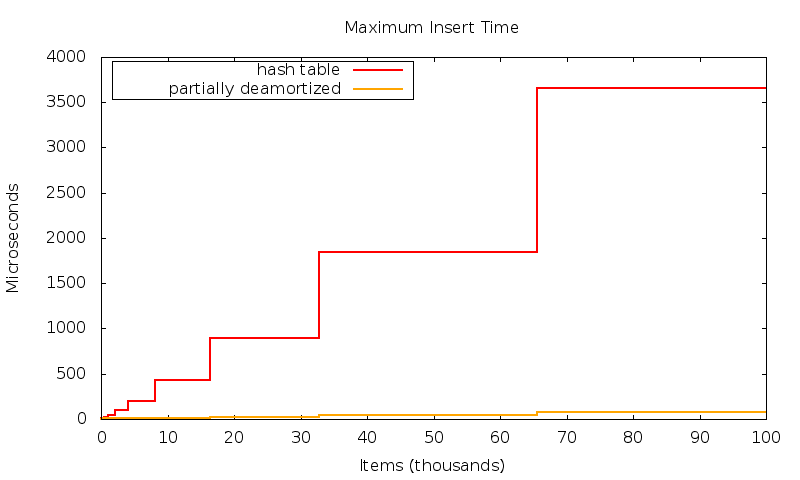
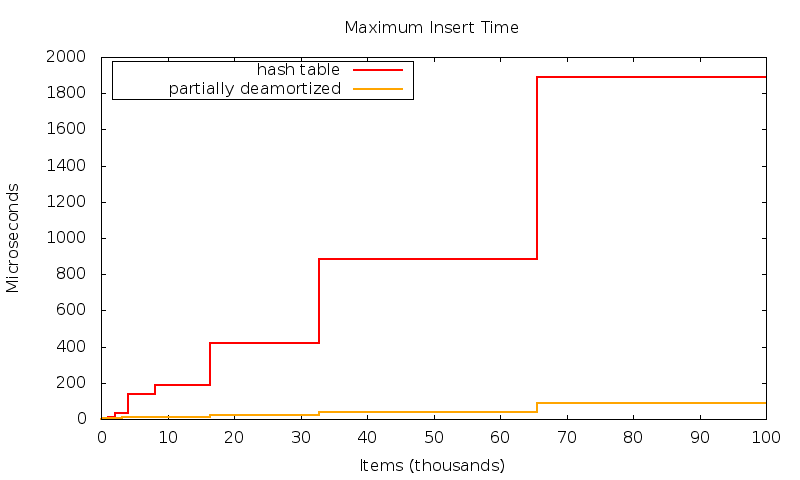
Add lookup performance, fix average calc to be only one place at a tme, add back -O3

diff --git a/src/benchmark/insert-maxtime.cc b/src/benchmark/insert-maxtime.cc
@@ -53,7 +53,7 @@ typedef some sample_type;
 template<typename T, typename U>
 void test(const unsigned size, const unsigned samples) {
   unsigned i = 0;
-  //high_priority zz;
+  high_priority zz;
   std::vector<T> p(samples);
   std::vector<U> q(samples);
   std::vector<size_t> l1(samples,0), l2(samples,0);
@@ -68,8 +68,8 @@ void test(const unsigned size, const unsigned samples) {
         mid = get_time(); 
         q[k].insert(x);
         end = get_time();
-        s1[k] += mid-begin;
-        s2[k] += end-mid;
+        s1[k] = mid-begin;
+        s2[k] = end-mid;
         l1[k] = std::max(l1[k], mid-begin);
         l2[k] = std::max(l2[k], end-mid);
       } else {
@@ -78,8 +78,8 @@ void test(const unsigned size, const unsigned samples) {
         mid = get_time(); 
         p[k].insert(x);
         end = get_time();
-        s2[k] += mid-begin;
-        s1[k] += end-mid;
+        s2[k] = mid-begin;
+        s1[k] = end-mid;
         l2[k] = std::max(l2[k], mid-begin);
         l1[k] = std::max(l1[k], end-mid);
       }
@@ -87,8 +87,58 @@ void test(const unsigned size, const unsigned samples) {
     cout << static_cast<double>(j)/1000.0 << '\t'
          << avg(l1)/1000.0 << '\t'
          << avg(l2)/1000.0 << '\t' 
-         << avg(s1)/static_cast<double>(1000 * (j+1)) << '\t'
-         << avg(s2)/static_cast<double>(1000 * (j+1)) << endl;
+         << avg(s1)/static_cast<double>(1000) << '\t'
+         << avg(s2)/static_cast<double>(1000) << endl;
+  }
+}
+
+template<typename T, typename U>
+void test_lookup(const unsigned size, const unsigned samples) {
+  void * dummy = 0;
+  unsigned i = 0;
+  //high_priority zz;
+  T p;
+  U q;
+  decltype(p.find(some::random())) pf;
+  decltype(q.find(some::random())) qf;
+  std::vector<some> x(samples, some::random());
+  for (size_t i = 0; i < samples; ++i) {
+    x[i] = some::random();
+  }
+  std::vector<size_t> l1(samples,0), l2(samples,0);
+  std::vector<size_t> s1(samples,0), s2(samples,0);
+  for (unsigned j = 0; j < size; ++j) { 
+    const auto y = some::random();
+    p.insert(y), q.insert(y);
+    for (unsigned k = 0; k < samples; ++k) { 
+      size_t begin, mid, end;
+      if ((j & 1)) {
+        begin = get_time();
+        pf = p.find(x[k]);
+        mid = get_time(); 
+        qf = q.find(x[k]);
+        end = get_time();
+        s1[k] = mid-begin;
+        s2[k] = end-mid;
+        l1[k] = std::max(l1[k], mid-begin);
+        l2[k] = std::max(l2[k], end-mid);
+      } else {
+        begin = get_time();
+        qf = q.find(x[k]);
+        mid = get_time(); 
+        pf = p.find(x[k]);
+        end = get_time();
+        s2[k] = mid-begin;
+        s1[k] = end-mid;
+        l2[k] = std::max(l2[k], mid-begin);
+        l1[k] = std::max(l1[k], end-mid);
+      }
+    }
+    cout << static_cast<double>(j)/1000.0 << '\t'
+         << avg(l1)/1000.0 << '\t'
+         << avg(l2)/1000.0 << '\t' 
+         << avg(s1)/static_cast<double>(1000) << '\t'
+         << avg(s2)/static_cast<double>(1000) << endl;
   }
 }
 
@@ -129,7 +179,7 @@ int main(int argc, char ** argv) {
     test<table, tree>(size, samples);
     break;
   case 1:
-    test<table, try1>(size, samples);
+    //test<table, try1>(size, samples);
     break;
   case 2:
     test<table, try2>(size, samples);

diff --git a/src/lazy-linear.cc b/src/lazy-linear.cc
@@ -275,6 +275,10 @@ struct quiet_map {
   
   quiet_map() : here(), there(), progress(0) {}
 
+  size_t find(const Key& k) {
+    return here.locate(k);
+  }
+
   void insert(const Key& k) {
     if (0 == here.capacity) {
       Base temp(16);
